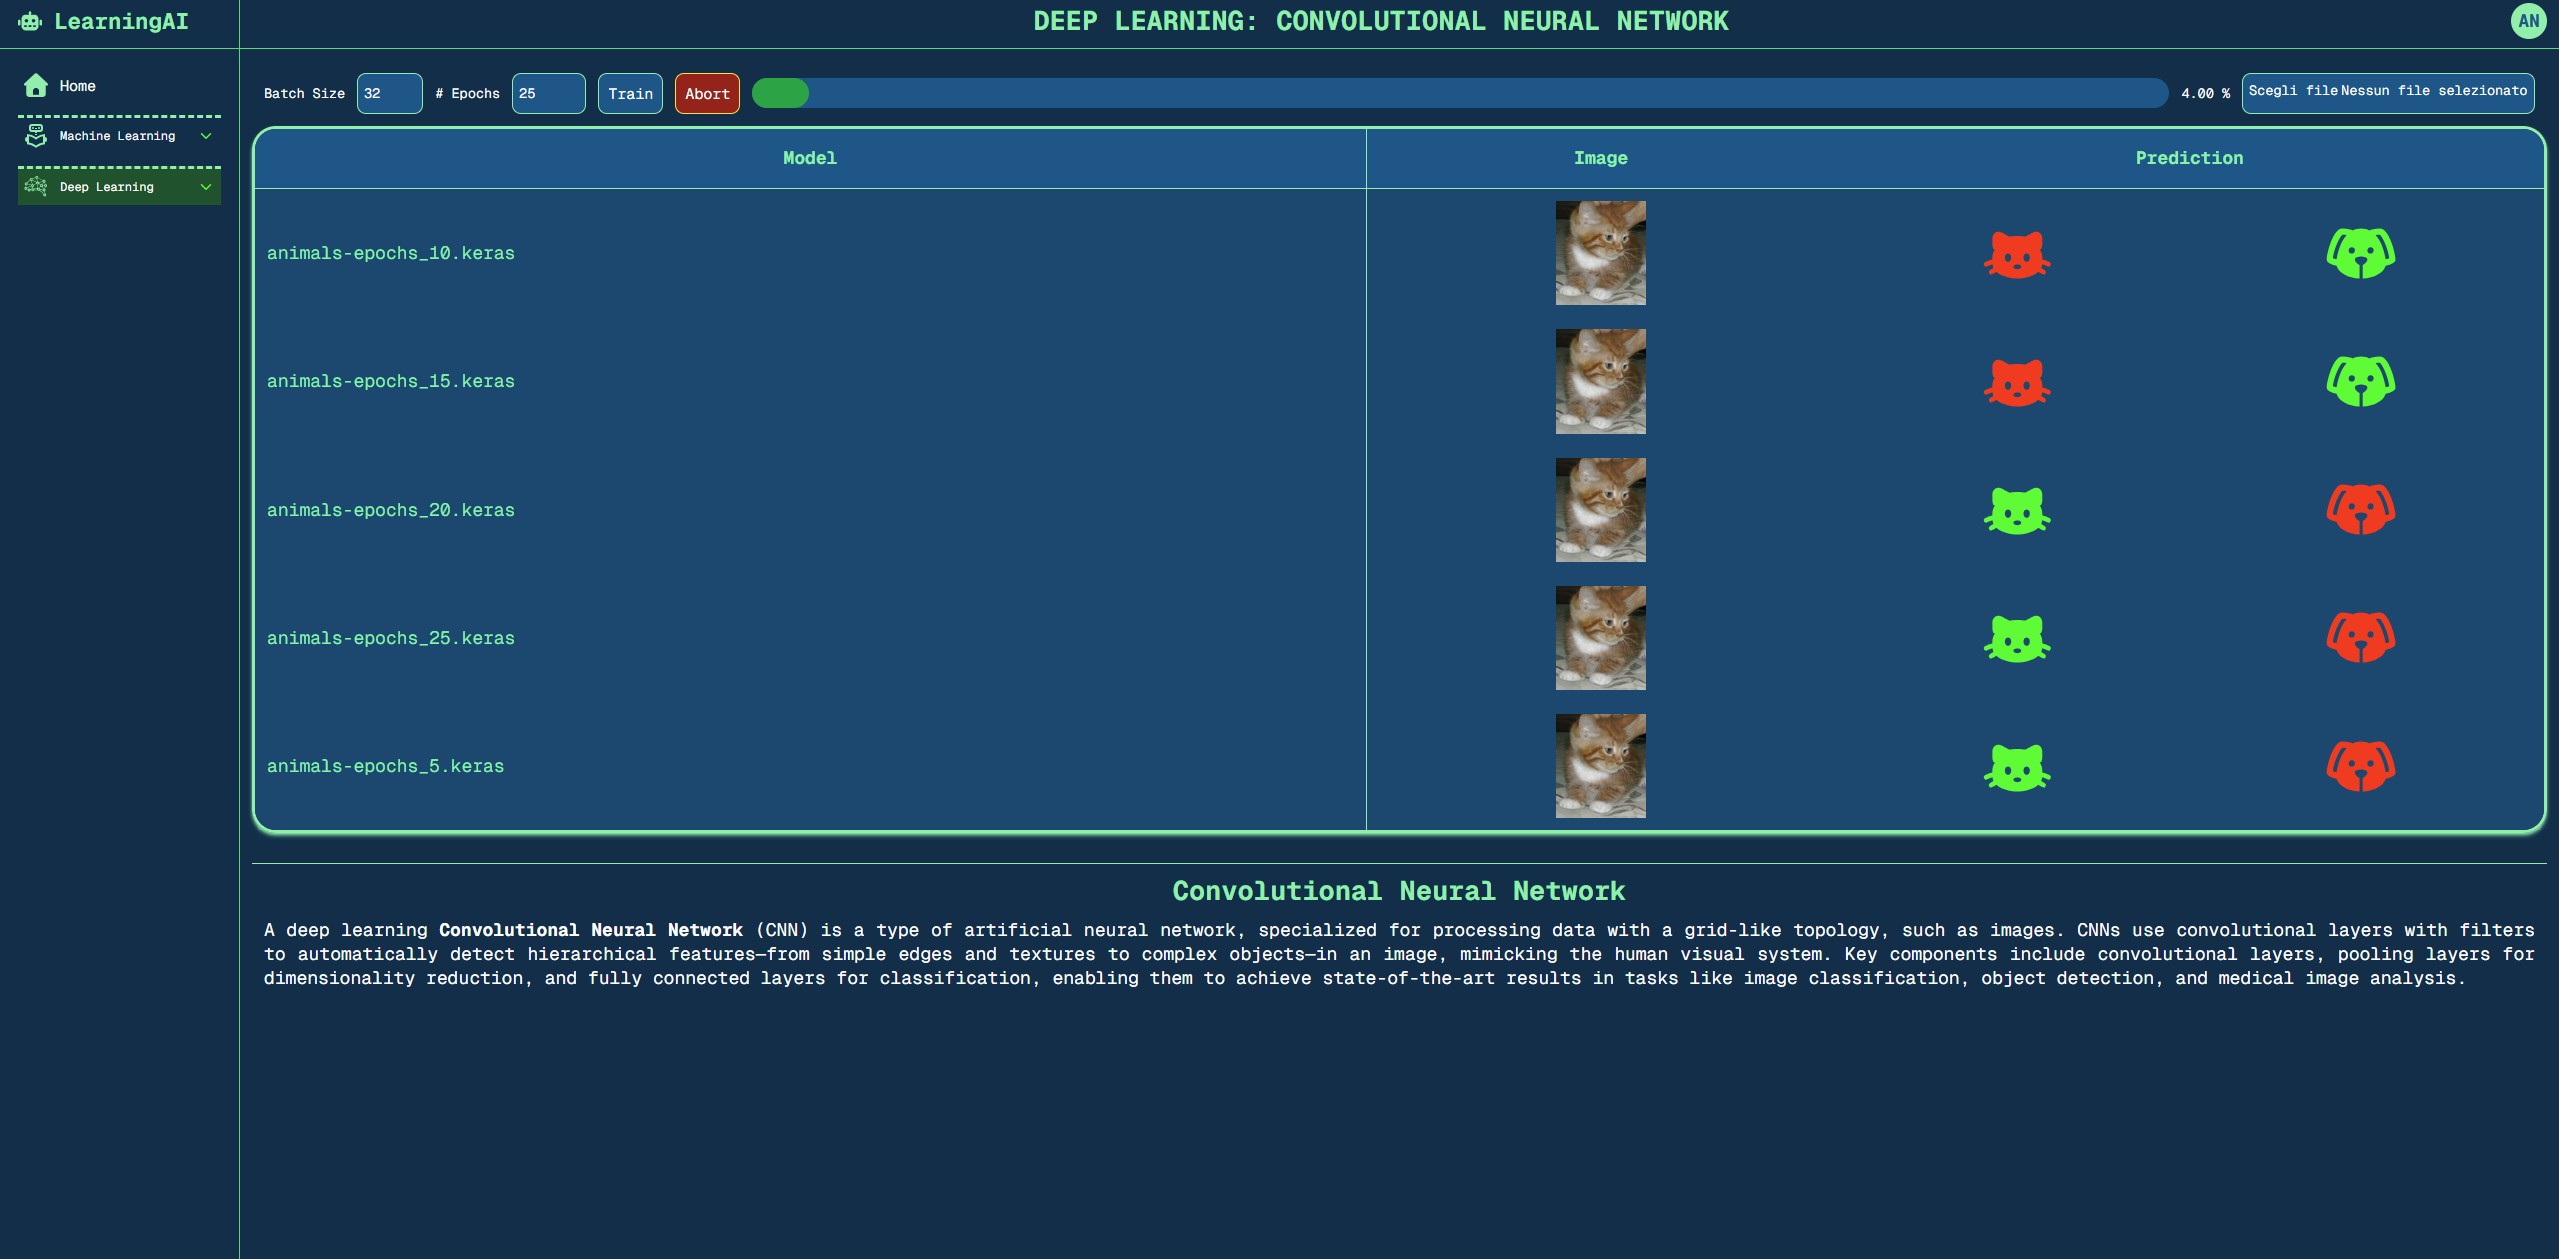
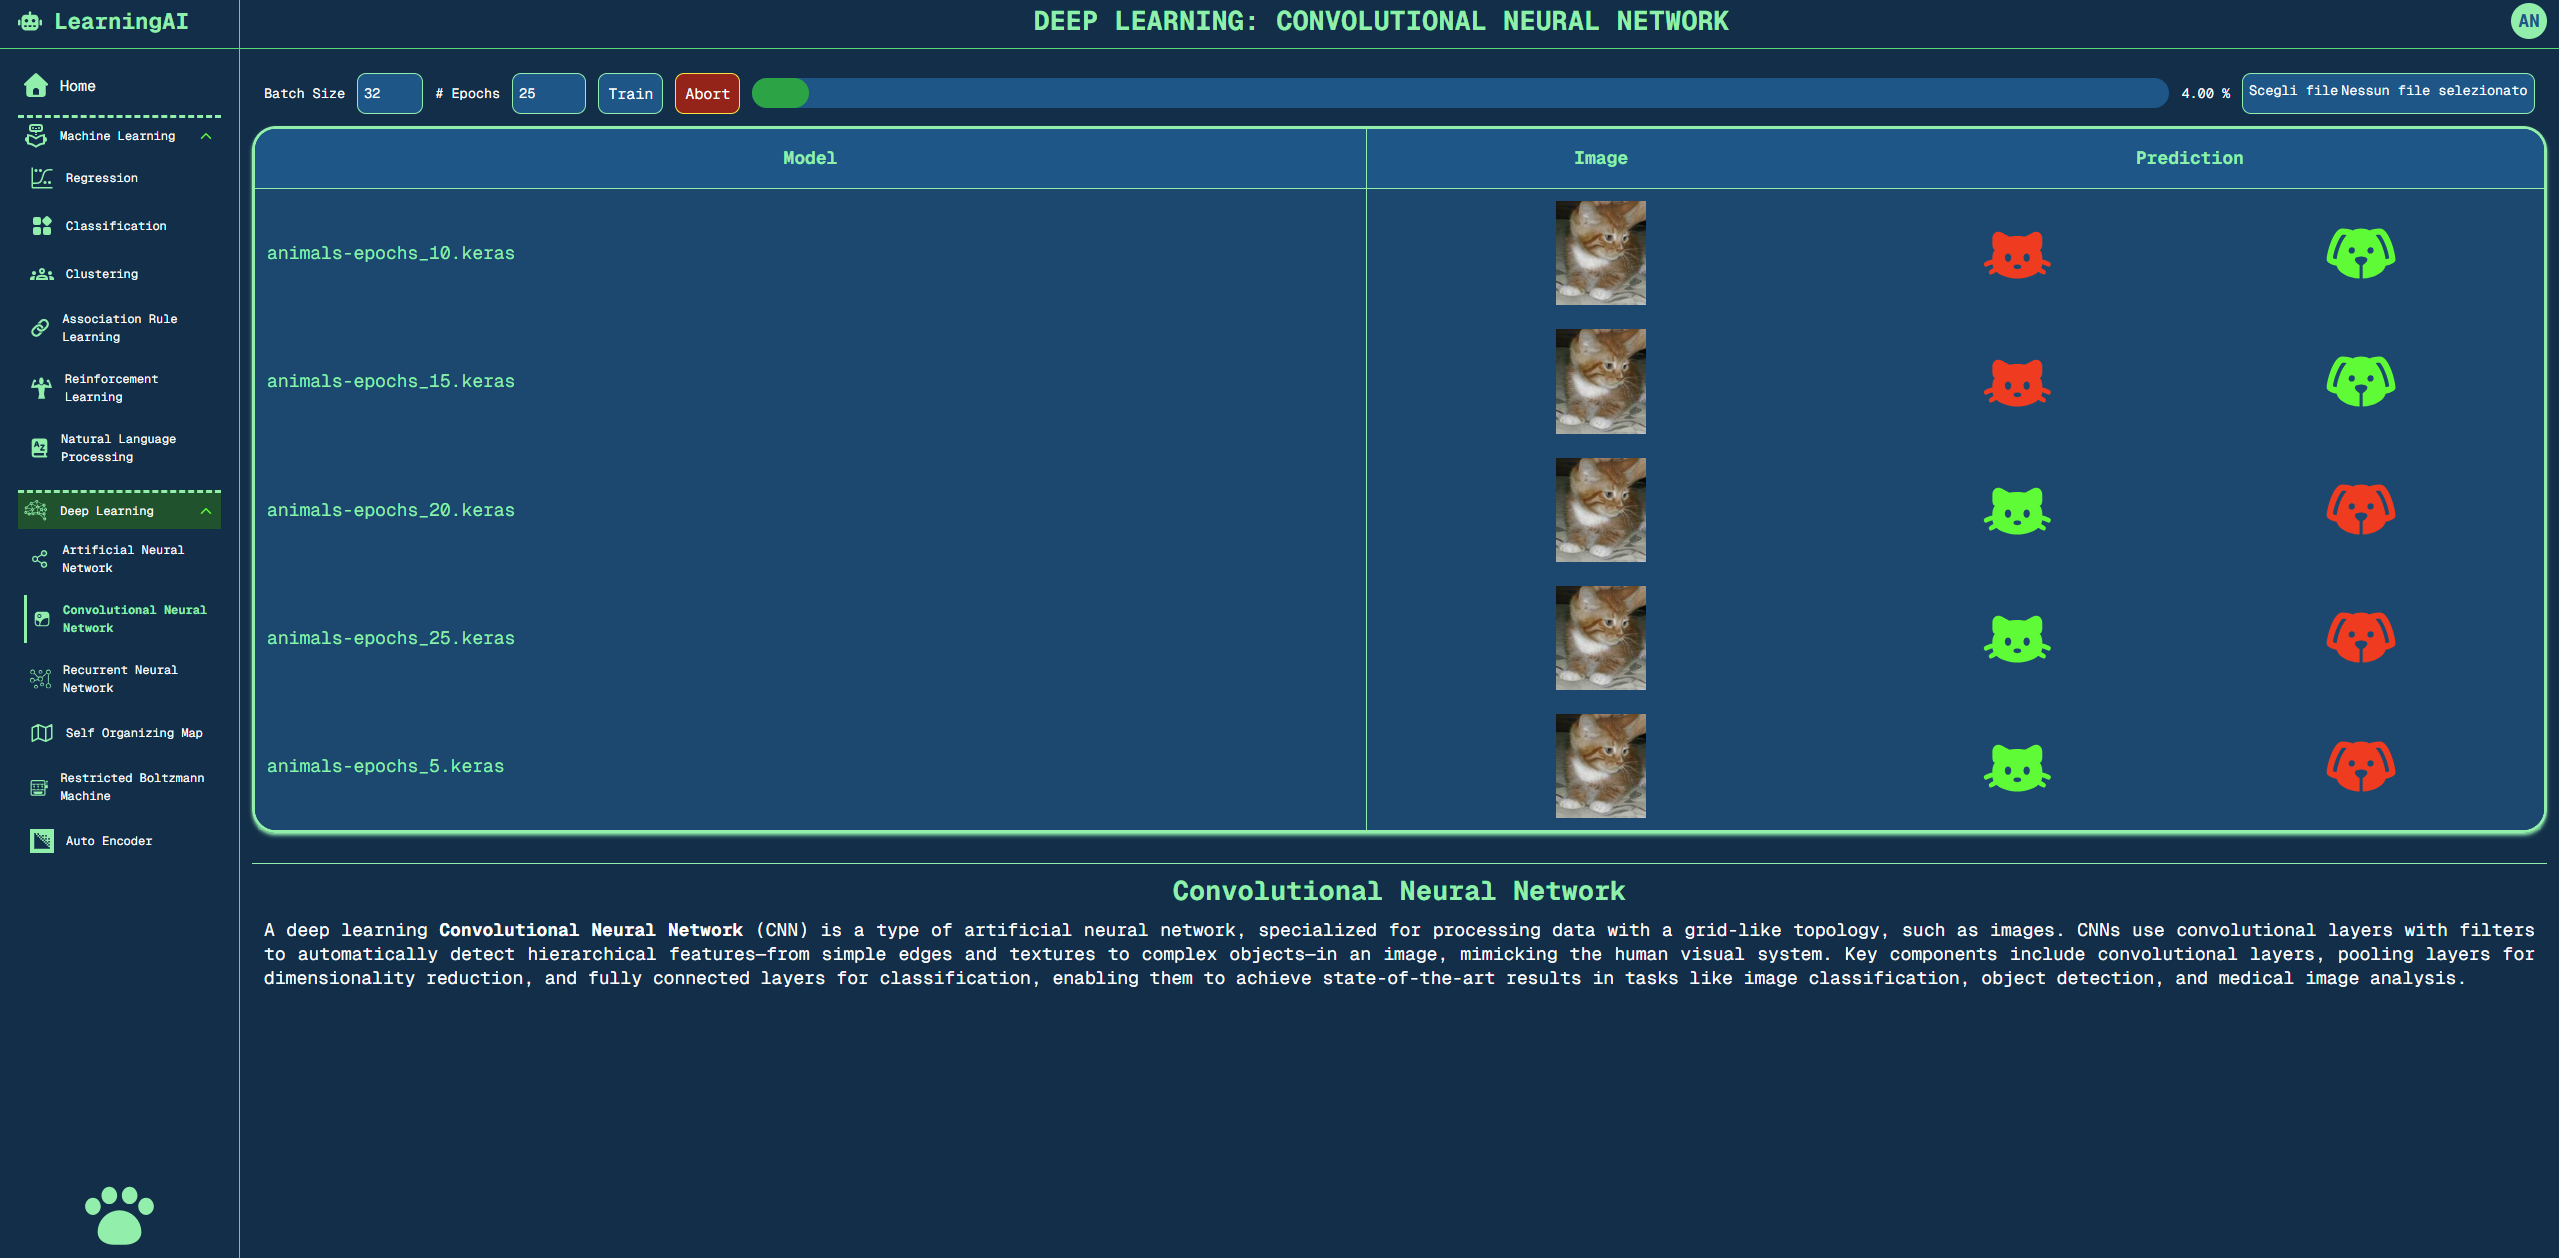
Convolutional Neural Network Image Update

diff --git a/nextjs-client/src/components/side-nav.tsx b/nextjs-client/src/components/side-nav.tsx
@@ -95,6 +95,7 @@ const SideNav = () =>
 		else if (page === 'reinforcement-learning') 		setDatasetIcon('circum:shop');
 		else if (page === 'natural-language-processing')	setDatasetIcon('ri:speak-ai-line');
 		else if (page === 'artificial-neural-network')		setDatasetIcon('fontisto:apple-music');
+		else if (page === 'convolutional-neural-network')	setDatasetIcon('fluent:animal-paw-print-24-filled');
 		else 												setDatasetIcon('');
 	}, [pathname]);
 

diff --git a/README.md b/README.md
@@ -101,4 +101,4 @@ The project is structured in the following folders:
 
 ### Convolutional Neural Network
 
-<p align="center"><img src="./images/convolutional-neural-network.png" width="100%"></p>
+<p align="center"><img src="./images/convolutional-neural-network.png?" width="100%"></p>
